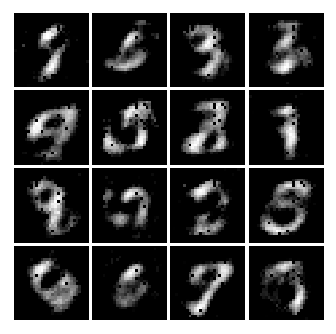
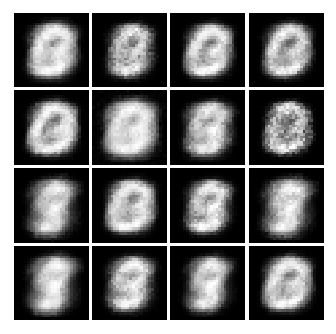
add gvlo

diff --git a/gvlo_tensorflow.py b/gvlo_tensorflow.py
@@ -58,13 +58,19 @@ latent_size = 100
 batch_size = 128
 
 #Placeholder
-Z_one_hot = tf.placeholder(tf.float32, shape=[None, samp_size])
-Z_samp = tf.placeholder(tf.float32, shape=[None, latent_size])
-X_in = tf.placeholder(tf.float32, shape=[None,784])
+k_ = tf.placeholder(tf.float32, shape=[None, samp_size])
+z_ = tf.placeholder(tf.float32, shape=[None, latent_size])
+x_ = tf.placeholder(tf.float32, shape=[None,784])
 
 #Model Variable
-W_latent = tf.Variable(xavier_init([samp_size, latent_size]))
-b_latent = tf.Variable(tf.zeros(shape=[latent_size]))
+W_e1 = tf.Variable(xavier_init([samp_size, 256]))
+b_e1 = tf.Variable(tf.zeros(shape=[256]))
+W_e2 = tf.Variable(xavier_init([256, 128]))
+b_e2 = tf.Variable(tf.zeros(shape=[128]))
+W_e3_mu = tf.Variable(xavier_init([128, latent_size]))
+b_e3_mu = tf.Variable(tf.zeros(shape=[latent_size]))
+W_e3_sigma = tf.Variable(xavier_init([128, latent_size]))
+b_e3_sigma = tf.Variable(tf.zeros(shape=[latent_size]))
 
 W_g1 = tf.Variable(xavier_init([latent_size,10]))
 b_g1 = tf.Variable(tf.zeros(shape=[10]))
@@ -74,27 +80,35 @@ W_g3 = tf.Variable(xavier_init([128,784]))
 b_g3 = tf.Variable(tf.zeros(shape=[784]))
 
 #Model Implement
-def OneHotEncoder(Z_o):
-    #Z_latent = tf.nn.tanh(tf.matmul(Z_o,W_latent) + b_latent, name='latent')
-    Z_latent = tf.matmul(Z_o,W_latent)
-    Z_latent_normal = tf.nn.l2_normalize(Z_latent, dim=1, epsilon=1, name=None)
-    return Z_latent_normal
+def OneHotEncoder(k):
+    h_e1 = tf.nn.relu(tf.matmul(k, W_e1) + b_e1)
+    h_e2 = tf.nn.relu(tf.matmul(h_e1, W_e2) + b_e2)
+    z_mu = tf.matmul(h_e2, W_e3_mu) + b_e3_mu
+    z_logvar = tf.matmul(h_e2, W_e3_sigma) + b_e3_sigma
+    return z_mu, z_logvar
 
-def Generator(Z_l):
-    h_g1 = tf.nn.relu(tf.matmul(Z_l, W_g1) + b_g1)
+def Generator(z):
+    h_g1 = tf.nn.relu(tf.matmul(z, W_g1) + b_g1)
     h_g2 = tf.nn.relu(tf.matmul(h_g1, W_g2) + b_g2)
-    X_re = tf.nn.relu(tf.matmul(h_g2, W_g3) + b_g3)
-    return X_re
+    x_logits = tf.matmul(h_g2, W_g3) + b_g3
+    x_prob = tf.nn.sigmoid(x_logits)
+    return x_prob, x_logits
 
-Z_latent = OneHotEncoder(Z_one_hot)
-GLO_re = Generator(Z_latent)
-GLO_samp = Generator(Z_samp)
+def sample_z(mu, log_var):
+    eps = tf.random_normal(shape=tf.shape(mu))
+    return mu + tf.exp(log_var / 2) * eps
 
-
+z_mu, z_logvar = OneHotEncoder(k_)
+z_sample = sample_z(z_mu, z_logvar)
+_, x_logits = Generator(z_sample)
+x_sample, _ = Generator(z_)
 
 #Loss and optimizer
-loss = tf.reduce_mean(tf.reduce_sum(tf.square(GLO_re - X_in), reduction_indices=[1]))
-train = tf.train.AdamOptimizer().minimize(loss)
+recon_loss = tf.reduce_sum(tf.nn.sigmoid_cross_entropy_with_logits(logits=x_logits, labels=x_), 1)
+kl_loss = 0.5 * tf.reduce_sum(tf.exp(z_logvar) + z_mu**2 - 1. - z_logvar, 1)
+loss = tf.reduce_mean(recon_loss + kl_loss)
+
+solver = tf.train.AdamOptimizer().minimize(loss)
 
 #Build model
 sess = tf.Session()
@@ -107,7 +121,8 @@ if not os.path.exists('out/'):
 i=0
 for it in range(100000):
     if it % 1000 == 0:
-        samples = sess.run(GLO_samp, feed_dict={Z_samp: sample_Z(16, latent_size)})
+        samples = sess.run(x_sample, feed_dict={z_: np.random.randn(16, latent_size)})
+        #print(samples.shape)
         #Z_test = sample_Z(16,10000)
         #Z_test = Z_train[0:16]
         #samples = sess.run(GLO_re, feed_dict={Z_one_hot: Z_test})
@@ -117,8 +132,8 @@ for it in range(100000):
         i += 1
         plt.close(fig)
 
-    X_, Z_ = mnist_next_batch(X_train, Z_train, 50)
-    G_loss = sess.run(train, feed_dict={X_in: X_, Z_one_hot: Z_})
+    X_, K_ = mnist_next_batch(X_train, Z_train, 50)
+    G_loss = sess.run(solver, feed_dict={x_: X_, k_: K_})
     if it % 1000 == 0:
         print('Iter: {}'.format(it))
 
